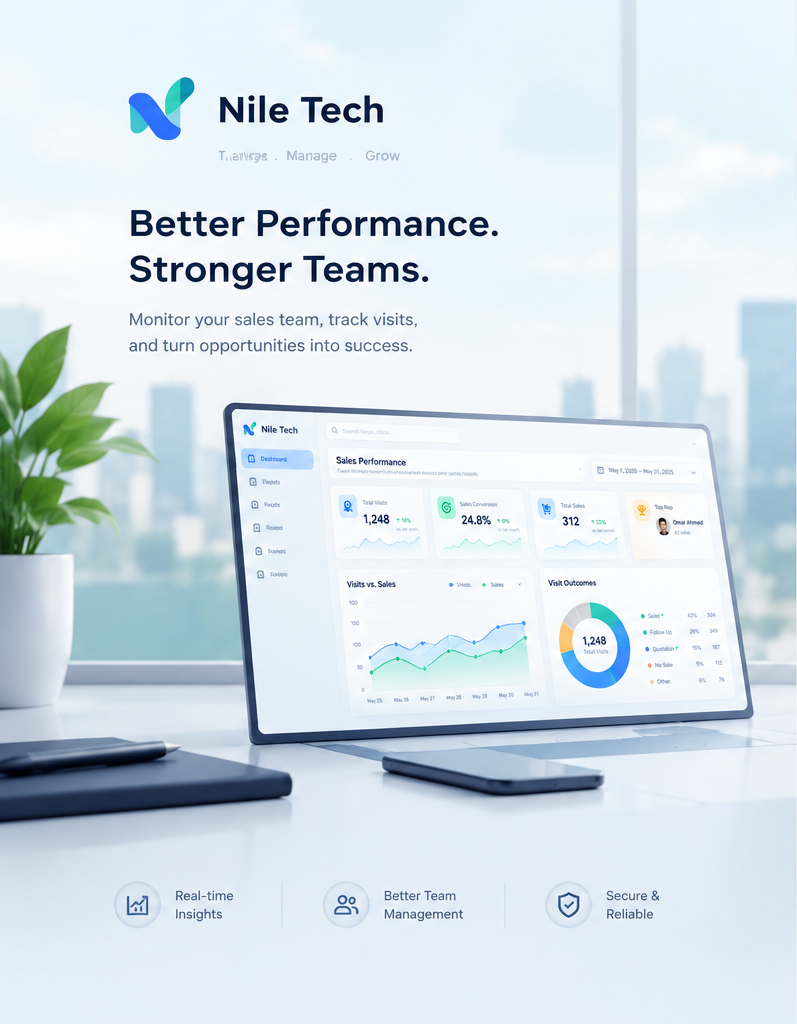
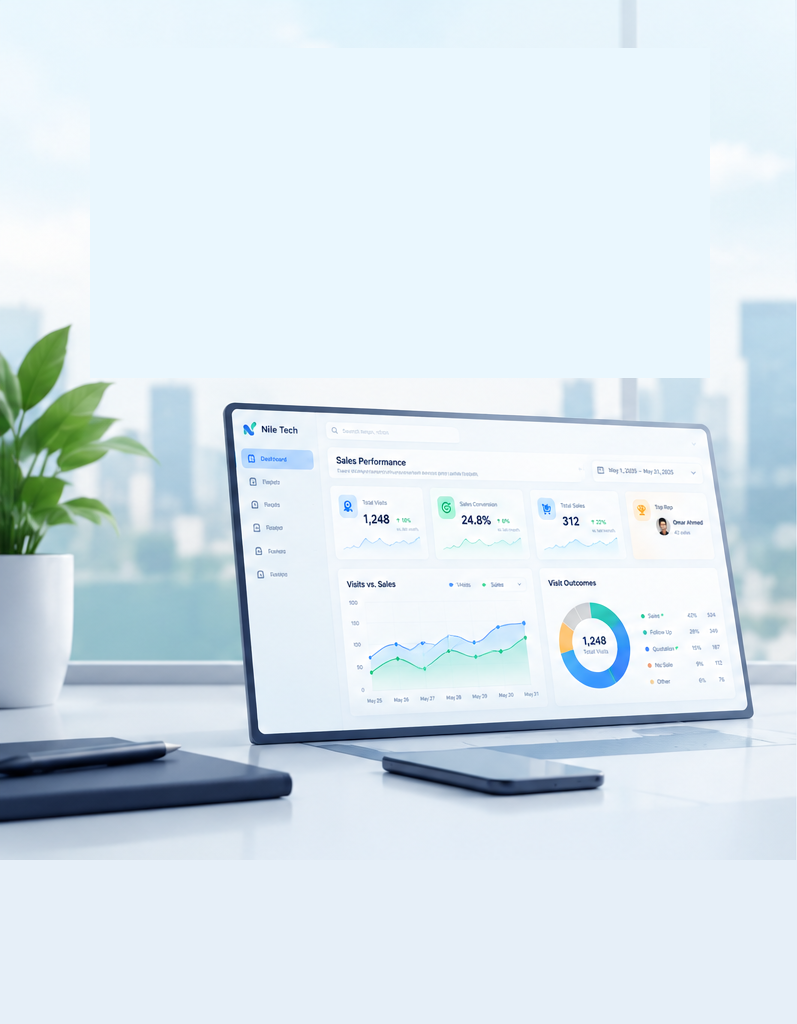
feat: update login page layout and styles for improved responsiveness and aesthetics

diff --git a/client/src/login.css b/client/src/login.css
@@ -13,11 +13,7 @@
   position: relative;
   overflow: hidden;
   min-height: 100vh;
-  display: flex;
-  flex-direction: column;
-  align-items: center;
-  justify-content: space-between;
-  padding: 64px 48px 36px;
+  padding: 0;
   text-align: center;
 }
 
@@ -41,30 +37,33 @@
 
 .login-hero-veil-top {
   top: 0;
-  height: 38%;
+  height: 36%;
   background: linear-gradient(
     180deg,
-    rgba(228, 240, 250, 0.96) 0%,
-    rgba(228, 240, 250, 0.9) 58%,
-    rgba(228, 240, 250, 0) 100%
+    rgba(224, 242, 252, 0.92) 0%,
+    rgba(224, 242, 252, 0.82) 64%,
+    rgba(224, 242, 252, 0) 100%
   );
 }
 
 .login-hero-veil-bottom {
   bottom: 0;
-  height: 16%;
+  height: 22%;
   background: linear-gradient(
     0deg,
-    rgba(244, 248, 252, 0.96) 0%,
-    rgba(244, 248, 252, 0.86) 55%,
-    rgba(244, 248, 252, 0) 100%
+    rgb(232, 240, 249) 0%,
+    rgb(232, 240, 249) 70%,
+    rgba(232, 240, 249, 0) 100%
   );
 }
 
 .login-hero-content {
-  position: relative;
+  position: absolute;
   z-index: 2;
-  width: min(560px, 100%);
+  top: 44px;
+  left: 50%;
+  transform: translateX(-50%);
+  width: min(560px, 88%);
   display: flex;
   flex-direction: column;
   align-items: center;
@@ -93,8 +92,8 @@
 }
 
 .login-hero h1 {
-  margin: 34px 0 14px;
-  font-size: 52px;
+  margin: 22px 0 10px;
+  font-size: 46px;
   line-height: 1.12;
   letter-spacing: -0.045em;
   font-weight: 800;
@@ -103,22 +102,25 @@
 
 .login-hero-copy {
   margin: 0;
-  max-width: 430px;
+  max-width: 420px;
   color: #5d7086;
-  font-size: 18px;
-  line-height: 1.55;
+  font-size: 16px;
+  line-height: 1.5;
   font-weight: 400;
 }
 
 .login-features {
-  position: relative;
+  position: absolute;
   z-index: 2;
+  left: 0;
+  right: 0;
+  bottom: 28px;
   display: flex;
   align-items: center;
   justify-content: center;
   gap: 0;
   color: #6b7c90;
-  font-size: 14px;
+  font-size: 13px;
   font-weight: 500;
 }
 

diff --git a/client/src/components/Settings.jsx b/client/src/components/Settings.jsx
@@ -78,7 +78,7 @@ export default function Settings() {
   return (
     <div className="login-page" dir="ltr">
       <section className="login-hero">
-        <img className="login-hero-photo" src="/login-left.png" alt="" />
+        <img className="login-hero-photo" src="/login-left.png?v=5" alt="" />
         <div className="login-hero-veil-top" />
         <div className="login-hero-veil-bottom" />
 
@@ -90,7 +90,9 @@ export default function Settings() {
             Stronger Teams.
           </h1>
           <p className="login-hero-copy">
-            Monitor your sales team, track visits, and turn opportunities into success.
+            Monitor your sales team, track visits,
+            <br />
+            and turn opportunities into success.
           </p>
         </div>
 
